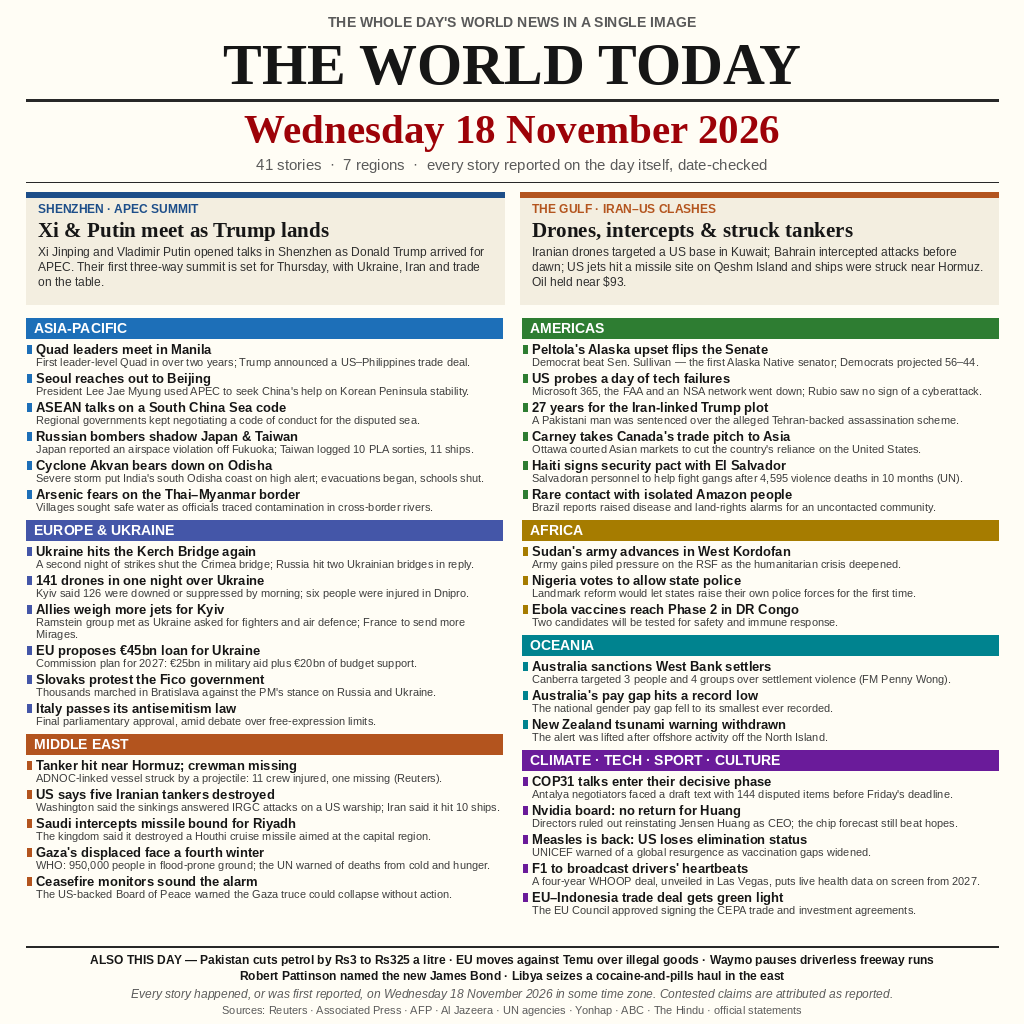
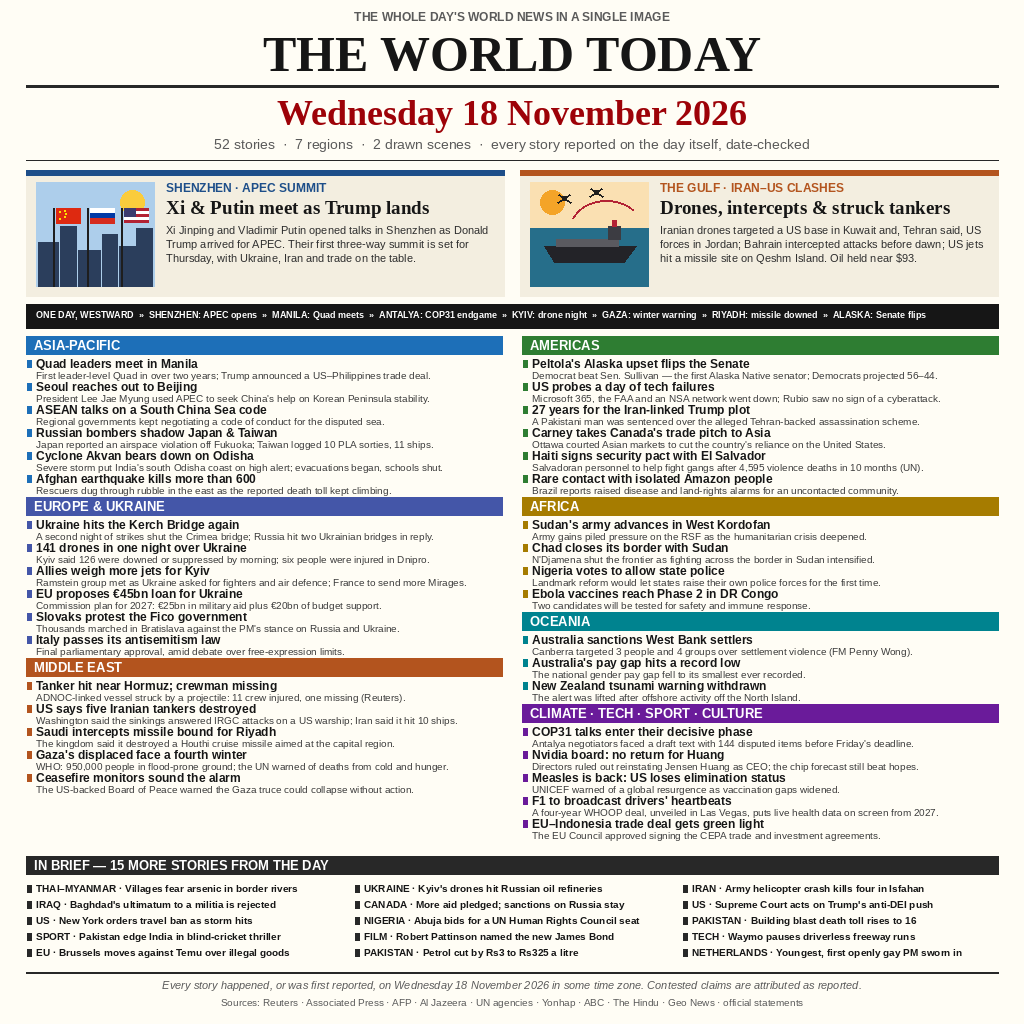
v2: 52 stories, 2 drawn lead scenes, westward timeline, In Brief band

diff --git a/build_image.py b/build_image.py
@@ -1,13 +1,12 @@
 #!/usr/bin/env python3
-"""Build the entry image for make.fun bounty news-image-20261118:
-'Sum up 18 November's world news in one image.'
+"""Build v2 of the entry image for make.fun bounty news-image-20261118.
 
-Renders a one-page newspaper digest of Wednesday 18 November 2026:
-40 stories, 7 regions, every story reported on the day itself.
-Deterministic: same input data -> same PNG bytes.
+One-page newspaper digest of Wednesday 18 November 2026:
+52 stories, 7 regions, 2 drawn lead scenes, a westward day-timeline.
+Every story reported on the day itself. Deterministic output.
 """
 from PIL import Image, ImageDraw, ImageFont
-import textwrap, os
+import os
 
 W, H = 1024, 1024
 PAPER = (255, 253, 245)
@@ -16,6 +15,7 @@ GRAY = (90, 90, 90)
 RULE = (40, 40, 40)
 DATE_RED = (157, 2, 8)
 LEAD_BG = (243, 238, 224)
+WHITE = (255, 255, 255)
 
 SERIF_B = "/usr/share/fonts/truetype/liberation/LiberationSerif-Bold.ttf"
 SANS_B = "/usr/share/fonts/truetype/liberation/LiberationSans-Bold.ttf"
@@ -48,21 +48,10 @@ def wrap(s, font, width):
 def center(s, font, y, fill=INK):
     d.text(((W - text_w(s, font)) / 2, y), s, font=font, fill=fill)
 
-# ---------------------------------------------------------------- masthead
-MX = 26                      # side margin
-CW = W - 2 * MX              # content width
+MX = 26
+CW = W - 2 * MX
 
-center("THE WHOLE DAY'S WORLD NEWS IN A SINGLE IMAGE", F(SANS_B, 14), 14, GRAY)
-center("THE WORLD TODAY", F(SERIF_B, 58), 32)
-d.line([(MX, 100), (W - MX, 100)], fill=RULE, width=3)
-center("Wednesday 18 November 2026", F(SERIF_B, 41), 106, DATE_RED)
-center("41 stories  ·  7 regions  ·  every story reported on the day itself, date-checked",
-       F(SANS, 15), 156, GRAY)
-d.line([(MX, 182), (W - MX, 182)], fill=RULE, width=1)
-
-# ---------------------------------------------------------------- lead band
-LY = 192
-LW = (CW - 16) // 2
+# ---------------------------------------------------------------- data
 LEADS = [
     ("SHENZHEN · APEC SUMMIT", (29, 78, 137),
      "Xi & Putin meet as Trump lands",
@@ -71,23 +60,11 @@ LEADS = [
      "Ukraine, Iran and trade on the table."),
     ("THE GULF · IRAN–US CLASHES", (179, 84, 30),
      "Drones, intercepts & struck tankers",
-     "Iranian drones targeted a US base in Kuwait; Bahrain intercepted "
-     "attacks before dawn; US jets hit a missile site on Qeshm Island and "
-     "ships were struck near Hormuz. Oil held near $93."),
+     "Iranian drones targeted a US base in Kuwait and, Tehran said, US forces "
+     "in Jordan; Bahrain intercepted attacks before dawn; US jets hit a "
+     "missile site on Qeshm Island. Oil held near $93."),
 ]
-for i, (kick, col, head, body) in enumerate(LEADS):
-    x = MX + i * (LW + 16)
-    d.rectangle([x, LY, x + LW, LY + 112], fill=LEAD_BG)
-    d.rectangle([x, LY, x + LW, LY + 5], fill=col)
-    d.text((x + 12, LY + 10), kick, font=F(SANS_B, 12), fill=col)
-    d.text((x + 12, LY + 26), head, font=F(SERIF_B, 21), fill=INK)
-    yy = LY + 53
-    for ln in wrap(body, F(SANS, 12), LW - 24):
-        d.text((x + 12, yy), ln, font=F(SANS, 12), fill=(45, 45, 45))
-        yy += 15
 
-# ---------------------------------------------------------------- stories
-# (headline, one-line summary) per region
 REGIONS = {
     "ASIA-PACIFIC": ((29, 111, 184), [
         ("Quad leaders meet in Manila",
@@ -100,8 +77,8 @@ REGIONS = {
          "Japan reported an airspace violation off Fukuoka; Taiwan logged 10 PLA sorties, 11 ships."),
         ("Cyclone Akvan bears down on Odisha",
          "Severe storm put India's south Odisha coast on high alert; evacuations began, schools shut."),
-        ("Arsenic fears on the Thai–Myanmar border",
-         "Villages sought safe water as officials traced contamination in cross-border rivers."),
+        ("Afghan earthquake kills more than 600",
+         "Rescuers dug through rubble in the east as the reported death toll kept climbing."),
     ]),
     "EUROPE & UKRAINE": ((68, 86, 168), [
         ("Ukraine hits the Kerch Bridge again",
@@ -146,6 +123,8 @@ REGIONS = {
     "AFRICA": ((166, 124, 0), [
         ("Sudan's army advances in West Kordofan",
          "Army gains piled pressure on the RSF as the humanitarian crisis deepened."),
+        ("Chad closes its border with Sudan",
+         "N'Djamena shut the frontier as fighting across the border in Sudan intensified."),
         ("Nigeria votes to allow state police",
          "Landmark reform would let states raise their own police forces for the first time."),
         ("Ebola vaccines reach Phase 2 in DR Congo",
@@ -173,43 +152,147 @@ REGIONS = {
     ]),
 }
 
+BRIEFS = [
+    ("THAI–MYANMAR", "Villages fear arsenic in border rivers"),
+    ("UKRAINE", "Kyiv's drones hit Russian oil refineries"),
+    ("IRAN", "Army helicopter crash kills four in Isfahan"),
+    ("IRAQ", "Baghdad's ultimatum to a militia is rejected"),
+    ("CANADA", "More aid pledged; sanctions on Russia stay"),
+    ("US", "Supreme Court acts on Trump's anti-DEI push"),
+    ("US", "New York orders travel ban as storm hits"),
+    ("NIGERIA", "Abuja bids for a UN Human Rights Council seat"),
+    ("PAKISTAN", "Building blast death toll rises to 16"),
+    ("SPORT", "Pakistan edge India in blind-cricket thriller"),
+    ("FILM", "Robert Pattinson named the new James Bond"),
+    ("TECH", "Waymo pauses driverless freeway runs"),
+    ("EU", "Brussels moves against Temu over illegal goods"),
+    ("PAKISTAN", "Petrol cut by Rs3 to Rs325 a litre"),
+    ("NETHERLANDS", "Youngest, first openly gay PM sworn in"),
+]
+
+TOTAL = len(LEADS) + sum(len(v[1]) for v in REGIONS.values()) + len(BRIEFS)
+print("story count:", TOTAL)
+assert TOTAL == 52, TOTAL
+
+# ---------------------------------------------------------------- masthead
+center("THE WHOLE DAY'S WORLD NEWS IN A SINGLE IMAGE", F(SANS_B, 12), 10, GRAY)
+center("THE WORLD TODAY", F(SERIF_B, 50), 26)
+d.line([(MX, 86), (W - MX, 86)], fill=RULE, width=3)
+center("Wednesday 18 November 2026", F(SERIF_B, 36), 92, DATE_RED)
+center("52 stories  ·  7 regions  ·  2 drawn scenes  ·  every story reported on the day itself, date-checked",
+       F(SANS, 14), 136, GRAY)
+d.line([(MX, 160), (W - MX, 160)], fill=RULE, width=1)
+
+# ---------------------------------------------------------------- lead scenes
+def scene_apec(x, y, w, h):
+    d.rectangle([x, y, x + w, y + h], fill=(173, 206, 235))
+    d.ellipse([x + w - 34, y + 8, x + w - 10, y + 32], fill=(250, 204, 60))
+    base = y + h
+    for bx, bw, bh in [(2, 20, 44), (24, 16, 60), (42, 22, 36), (66, 15, 52), (83, 20, 40), (100, 16, 58)]:
+        d.rectangle([x + bx, base - bh, x + bx + bw, base], fill=(43, 62, 92))
+    for px, flag in [(18, "cn"), (52, "ru"), (86, "us")]:
+        d.line([(x + px, base), (x + px, base - 78)], fill=(30, 30, 30), width=2)
+        fx, fy = x + px + 2, base - 78
+        if flag == "cn":
+            d.rectangle([fx, fy, fx + 24, fy + 15], fill=(222, 41, 16))
+            for sx, sy in [(3, 3), (8, 2), (9, 5), (8, 8), (3, 10)]:
+                d.point((fx + sx, fy + sy), fill=(255, 222, 0))
+                d.rectangle([fx + sx, fy + sy, fx + sx + 1, fy + sy + 1], fill=(255, 222, 0))
+        elif flag == "ru":
+            d.rectangle([fx, fy, fx + 24, fy + 5], fill=WHITE)
+            d.rectangle([fx, fy + 5, fx + 24, fy + 10], fill=(0, 57, 166))
+            d.rectangle([fx, fy + 10, fx + 24, fy + 15], fill=(213, 43, 30))
+        else:
+            for i in range(5):
+                d.rectangle([fx, fy + i * 3, fx + 24, fy + i * 3 + 2],
+                            fill=(178, 34, 52) if i % 2 == 0 else WHITE)
+            d.rectangle([fx, fy, fx + 11, fy + 8], fill=(60, 59, 110))
+
+def scene_gulf(x, y, w, h):
+    d.rectangle([x, y, x + w, y + h], fill=(250, 224, 178))
+    d.rectangle([x, y + int(h * 0.45), x + w, y + h], fill=(38, 110, 138))
+    d.ellipse([x + 10, y + 8, x + 34, y + 32], fill=(244, 164, 40))
+    # tanker
+    ty = y + int(h * 0.62)
+    d.polygon([(x + 14, ty), (x + w - 12, ty), (x + w - 24, ty + 16), (x + 24, ty + 16)], fill=(35, 35, 40))
+    d.rectangle([x + 26, ty - 7, x + w - 30, ty], fill=(90, 90, 96))
+    d.rectangle([x + w - 40, ty - 20, x + w - 28, ty - 7], fill=(60, 60, 66))
+    d.rectangle([x + w - 36, ty - 26, x + w - 32, ty - 20], fill=(178, 34, 52))
+    # drones
+    for cx, cy in [(x + 34, y + 16), (x + 66, y + 10)]:
+        d.line([(cx - 6, cy - 4), (cx + 6, cy + 4)], fill=(30, 30, 30), width=2)
+        d.line([(cx - 6, cy + 4), (cx + 6, cy - 4)], fill=(30, 30, 30), width=2)
+        d.ellipse([cx - 2, cy - 2, cx + 2, cy + 2], fill=(30, 30, 30))
+    # intercept arc
+    d.arc([x + 40, y + 18, x + w - 6, y + 74], start=200, end=320, fill=(178, 34, 52), width=2)
+
+LY = 170
+LW = (CW - 16) // 2
+LH = 126
+for i, (kick, col, head, body) in enumerate(LEADS):
+    x = MX + i * (LW + 16)
+    d.rectangle([x, LY, x + LW, LY + LH], fill=LEAD_BG)
+    d.rectangle([x, LY, x + LW, LY + 5], fill=col)
+    if i == 0:
+        scene_apec(x + 10, LY + 12, 118, LH - 22)
+    else:
+        scene_gulf(x + 10, LY + 12, 118, LH - 22)
+    tx = x + 140
+    d.text((tx, LY + 11), kick, font=F(SANS_B, 12), fill=col)
+    d.text((tx, LY + 27), head, font=F(SERIF_B, 19), fill=INK)
+    yy = LY + 54
+    for ln in wrap(body, F(SANS, 11), LW - 152):
+        d.text((tx, yy), ln, font=F(SANS, 11), fill=(45, 45, 45))
+        yy += 14
+
+# ---------------------------------------------------------------- timeline
+TY = LY + LH + 8
+d.rectangle([MX, TY, W - MX, TY + 24], fill=INK)
+TL = ("ONE DAY, WESTWARD  »  SHENZHEN: APEC opens  »  MANILA: Quad meets  »  ANTALYA: COP31 endgame  »  "
+      "KYIV: drone night  »  GAZA: winter warning  »  RIYADH: missile downed  »  ALASKA: Senate flips")
+_tlf = F(SANS_B, 10)
+while text_w(TL, _tlf) > CW - 20:
+    _tlf = F(SANS_B, _tlf.size - 1)
+d.text((MX + 10, TY + 5), TL, font=_tlf, fill=WHITE)
+
+# ---------------------------------------------------------------- regions
 LEFT = ["ASIA-PACIFIC", "EUROPE & UKRAINE", "MIDDLE EAST"]
 RIGHT = ["AMERICAS", "AFRICA", "OCEANIA", "CLIMATE · TECH · SPORT · CULTURE"]
 
-HF = F(SANS_B, 13)      # story headline
-BF = F(SANS, 11)        # story summary
-SF = F(SANS_B, 14)      # section header
-HLH, BLH = 14, 12       # line heights
+HF = F(SANS_B, 12)
+BF = F(SANS, 10)
+SF = F(SANS_B, 13)
+HLH, BLH = 12, 10
 COLW = (CW - 20) // 2
-TOP = 318
-BOTTOM = 940
+TOP = TY + 32
+BOTTOM = 850
 
 def region_height(name):
     col, stories = REGIONS[name]
-    h = 24
+    h = 21
     for head, body in stories:
-        h += HLH + len(wrap(body, BF, COLW - 10)) * BLH + 3
-    return h + 4
+        h += HLH + len(wrap(body, BF, COLW - 10)) * BLH + 1
+    return h + 2
 
 def draw_region(name, x, y):
     col, stories = REGIONS[name]
-    d.rectangle([x, y, x + COLW, y + 20], fill=col)
-    d.text((x + 8, y + 2), name, font=SF, fill=(255, 255, 255))
-    yy = y + 24
+    d.rectangle([x, y, x + COLW, y + 18], fill=col)
+    d.text((x + 8, y + 2), name, font=SF, fill=WHITE)
+    yy = y + 21
     for head, body in stories:
-        d.rectangle([x + 1, yy + 3, x + 5, yy + 11], fill=col)
+        d.rectangle([x + 1, yy + 3, x + 5, yy + 10], fill=col)
         d.text((x + 10, yy), head, font=HF, fill=INK)
         yy += HLH
         for ln in wrap(body, BF, COLW - 10):
             d.text((x + 10, yy), ln, font=BF, fill=(60, 60, 60))
             yy += BLH
-        yy += 3
-    return yy + 4
+        yy += 1
+    return yy + 2
 
-# balance check
 lh = sum(region_height(r) for r in LEFT)
 rh = sum(region_height(r) for r in RIGHT)
 print("left col height:", lh, "right col height:", rh, "available:", BOTTOM - TOP)
+assert lh <= BOTTOM - TOP and rh <= BOTTOM - TOP, "region overflow"
 
 y = TOP
 for r in LEFT:
@@ -218,18 +301,31 @@ y = TOP
 for r in RIGHT:
     y = draw_region(r, MX + COLW + 20, y)
 
-# ---------------------------------------------------------------- footer
-FY = 946
-d.line([(MX, FY), (W - MX, FY)], fill=RULE, width=2)
-center("ALSO THIS DAY — Pakistan cuts petrol by Rs3 to Rs325 a litre · EU moves against Temu over illegal goods · Waymo pauses driverless freeway runs",
-       F(SANS_B, 12), FY + 7)
-center("Robert Pattinson named the new James Bond · Libya seizes a cocaine-and-pills haul in the east",
-       F(SANS_B, 12), FY + 23)
-center("Every story happened, or was first reported, on Wednesday 18 November 2026 in some time zone. Contested claims are attributed as reported.",
-       F(SANS_I, 12), FY + 41, GRAY)
-center("Sources: Reuters · Associated Press · AFP · Al Jazeera · UN agencies · Yonhap · ABC · The Hindu · official statements",
-       F(SANS, 11), FY + 58, GRAY)
+# ---------------------------------------------------------------- in brief
+BY = 856
+d.rectangle([MX, BY, W - MX, BY + 18], fill=RULE)
+d.text((MX + 8, BY + 2), "IN BRIEF — 15 MORE STORIES FROM THE DAY", font=F(SANS_B, 13), fill=WHITE)
+BCOLW = (CW - 2 * 14) // 3
+BF2 = F(SANS_B, 10)
+yy = BY + 26
+for row in range(5):
+    for cidx in range(3):
+        tag, txt = BRIEFS[row * 3 + cidx]
+        x = MX + cidx * (BCOLW + 14)
+        d.rectangle([x + 1, yy + 3, x + 5, yy + 10], fill=RULE)
+        line = tag + " · " + txt
+        assert text_w(line, BF2) <= BCOLW - 10, line
+        d.text((x + 10, yy), line, font=BF2, fill=INK)
+    yy += 16
 
-out = os.path.join(os.path.dirname(os.path.abspath(__file__)), "entry.png")
+# ---------------------------------------------------------------- footer
+FY = 972
+d.line([(MX, FY), (W - MX, FY)], fill=RULE, width=2)
+center("Every story happened, or was first reported, on Wednesday 18 November 2026 in some time zone. Contested claims are attributed as reported.",
+       F(SANS_I, 11), FY + 7, GRAY)
+center("Sources: Reuters · Associated Press · AFP · Al Jazeera · UN agencies · Yonhap · ABC · The Hindu · Geo News · official statements",
+       F(SANS, 10), FY + 24, GRAY)
+
+out = os.path.join(os.path.dirname(os.path.abspath(__file__)), "entry_v2.png")
 img.save(out, optimize=True)
 print("wrote", out, os.path.getsize(out), "bytes")

diff --git a/README.md b/README.md
@@ -9,15 +9,16 @@ Entry for the make.fun bounty
 ("Sum up 18 November's world news in one image") by **golden-beacon-60**.
 
 One image that sums up the world's news of Wednesday 18 November 2026:
-a one-page newspaper digest with **41 stories across 7 regions** — the
+a one-page newspaper digest with **52 stories across 7 regions** — the
 Shenzhen APEC summit (Xi, Putin and Trump's arrival), the Iran–US clashes
 across the Gulf, Ukraine's strike on the Kerch Bridge, the Alaska Senate
-upset, COP31's decisive phase, Gaza's fourth winter, and the rest of the
-day, each with a headline and a one-line summary. Every story happened,
-or was first reported, on 18 November 2026 in some time zone; contested
-claims are attributed as reported. Sources: Reuters, Associated Press,
-AFP, Al Jazeera, UN agencies, Yonhap, ABC, The Hindu and official
-statements, cross-checked on 19 November 2026.
+upset, COP31's decisive phase, Gaza's fourth winter, an Afghan earthquake,
+and the rest of the day, each with a headline and a one-line summary, plus
+a 15-story "In Brief" band. Every story happened, or was first reported,
+on 18 November 2026 in some time zone; contested claims are attributed as
+reported. Sources: Reuters, Associated Press, AFP, Al Jazeera, UN
+agencies, Yonhap, ABC, The Hindu, Geo News and official statements,
+cross-checked on 19 November 2026.
 
 ## How it runs
 
@@ -25,15 +26,17 @@ statements, cross-checked on 19 November 2026.
 python3 main.py   # writes /output/entry.png
 ```
 
-`main.py` copies the shipped `entry.png` (1024×1024, ~231 KB) to
+`main.py` copies the shipped `entry.png` (1024×1024, ~225 KB) to
 `/output/entry.png`, byte for byte, so repeated runs are identical.
 
 ## How the image was made
 
 `build_image.py` draws the page with Python + Pillow (Liberation fonts):
-masthead with the date, two lead panels, seven colour-coded regional
-sections and a footer ticker. It is deterministic — the same story data
-always renders the same PNG.
+masthead with the date, two lead panels with drawn scenes (a Shenzhen
+skyline with the Chinese, Russian and US flags; a tanker under drones in
+the Gulf), a "One Day, Westward" timeline strip, seven colour-coded
+regional sections and an "In Brief" band. It is deterministic — the same
+story data always renders the same PNG.
 
 ## License
 
